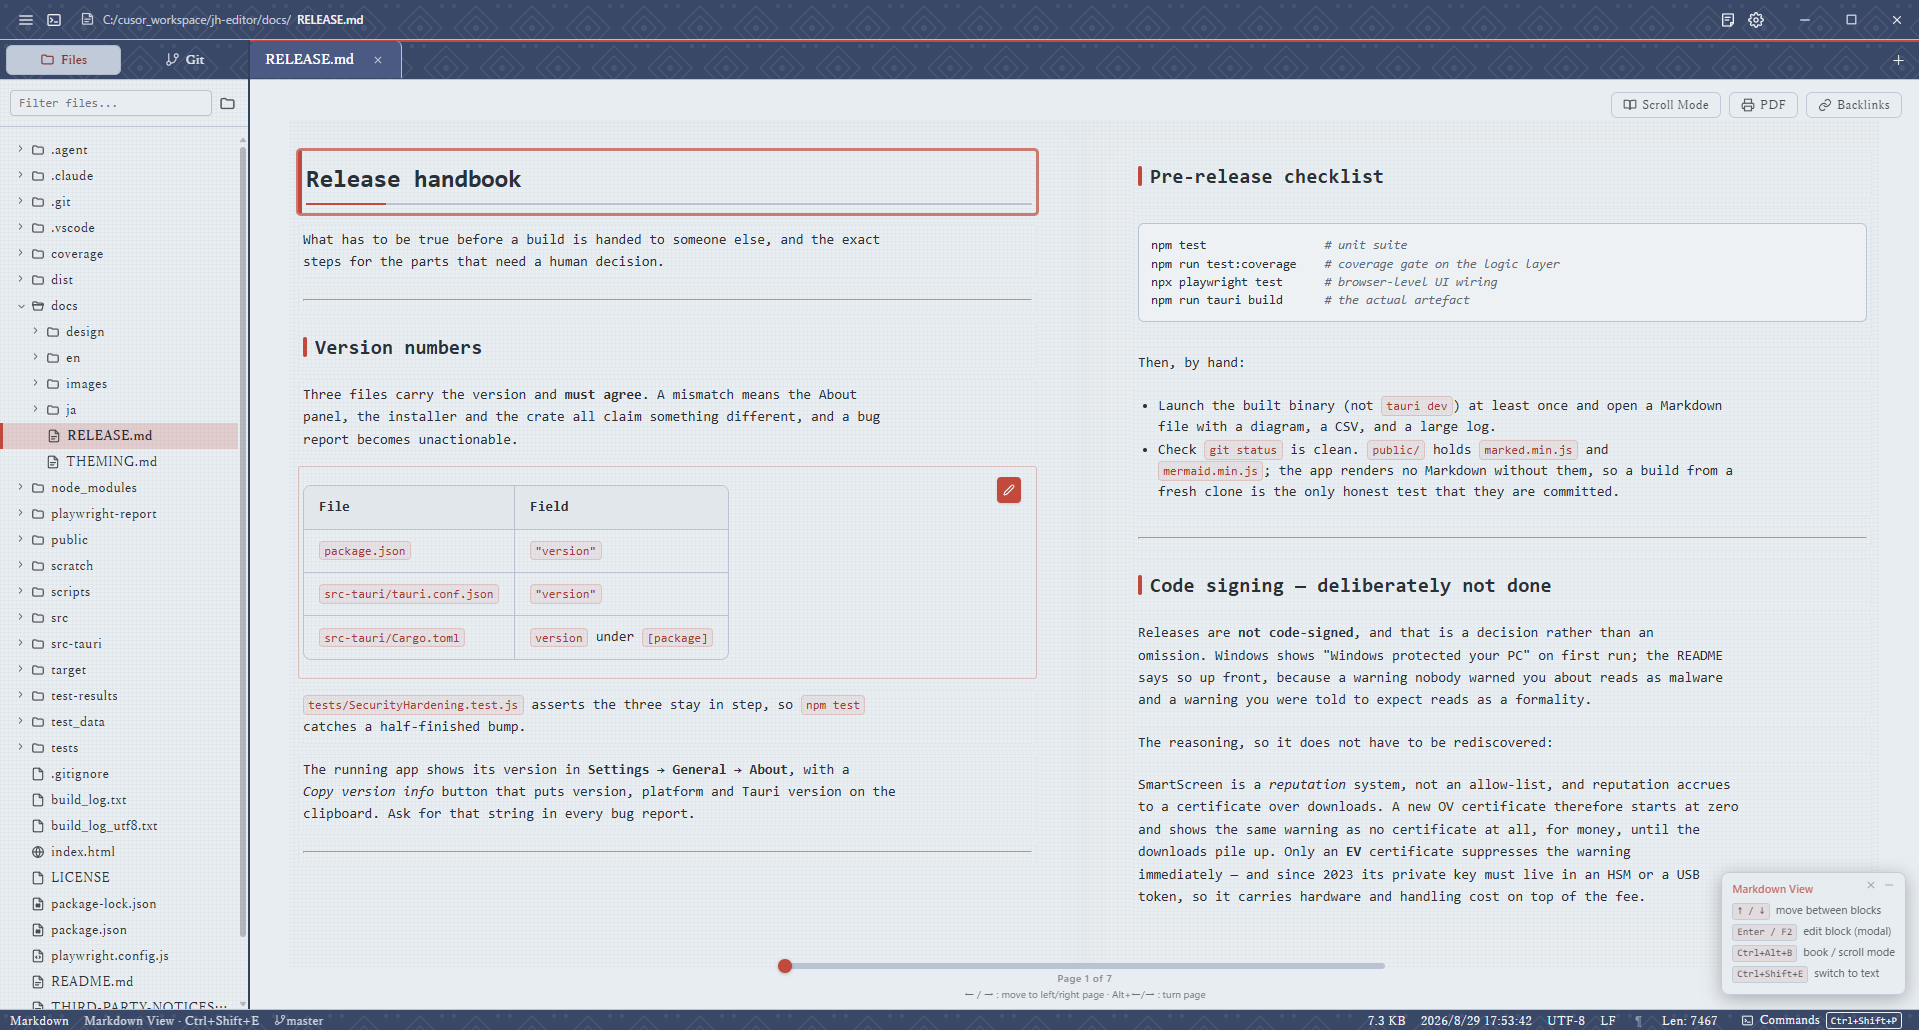
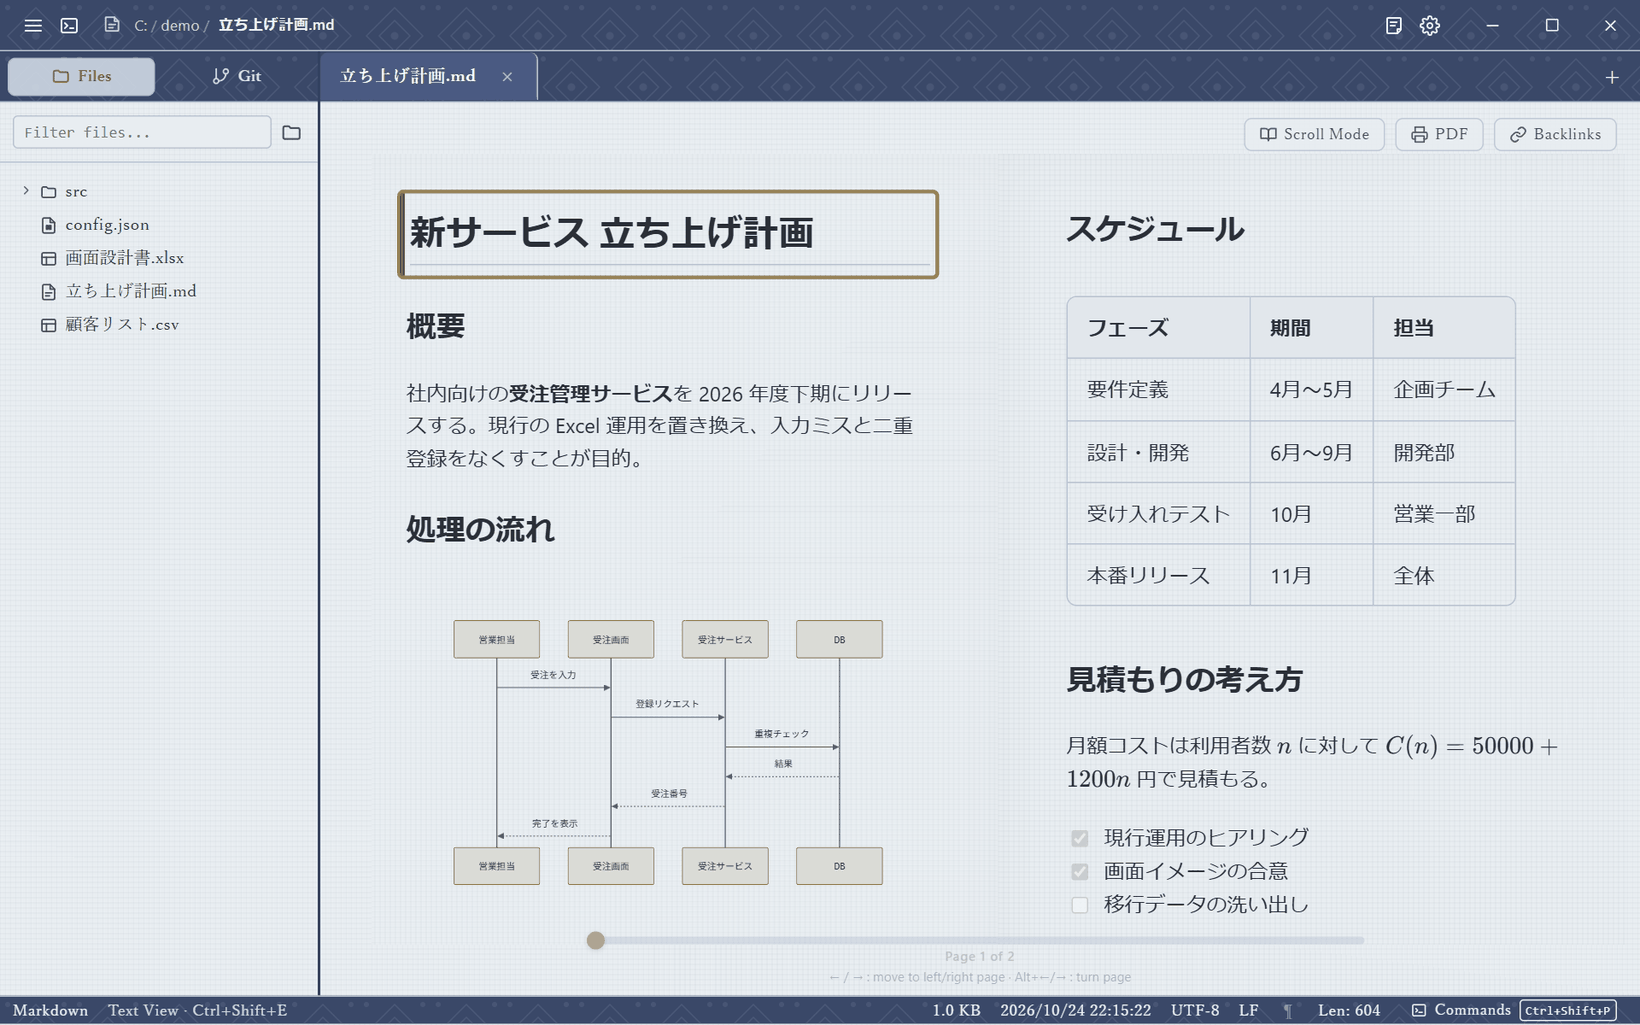
docs: README を 0.6.0 に合わせ、スクリーンショットをライト／ダークで撮り直す
- Git（マージ・リベース・リセット、競合解消、認証ダイアログ）、3 方向マージ、
  エクスプローラー、ワークスペース、文書フォントなど 0.4 以降の機能を追記
- スクリーンショットを掛軸／掛軸ダークのペアにし、<picture> で GitHub の
  表示設定に合わせて切り替える。比較・Excel プレビュー・スライドを追加
- 14 テーマの一覧画像と表を追加（「11 themes」の記述を訂正）
- ショートカット表とプロジェクト構成を現状に合わせる

diff --git a/README.md b/README.md
@@ -4,11 +4,14 @@ A local-first desktop text editor built with **Tauri 2**, **vanilla JavaScript**
 
 <p align="center">
   <picture>
+    <source media="(prefers-color-scheme: dark)" srcset="docs/images/hero-dark.png">
     <img src="docs/images/hero-light.png" alt="J.H Editor in Book mode, with the file tree and tab bar" width="820">
   </picture>
 </p>
 <p align="center">
-  <em>Book mode &mdash; a page-turning reading view for long documents, with highlighting intact</em>
+  <em>Book mode &mdash; a page-turning reading view for long documents, with Mermaid,
+  tables and math intact. Shown in Hanging Scroll, the default theme; the screenshots
+  follow GitHub's light / dark setting.</em>
 </p>
 
 J.H Editor is aimed at being the editor you leave open all day — a fast default for
@@ -17,12 +20,18 @@ Git panel when you need them. It is not trying to be an IDE. Where AI is concern
 plays the **companion** role: it exposes the document you are editing to an external
 agent over MCP, rather than embedding an LLM stack of its own.
 
+Double-click to editable, in well under a second. The window stays hidden until the
+editor is actually ready, so there is no white flash and no empty frame.
+
 ---
 
 ## Screenshots
 
 <p align="center">
-  <img src="docs/images/csv-table.png" alt="A Shift_JIS CSV file opened as a spreadsheet grid" width="820">
+  <picture>
+    <source media="(prefers-color-scheme: dark)" srcset="docs/images/csv-dark.png">
+    <img src="docs/images/csv-light.png" alt="A Shift_JIS CSV file opened as a spreadsheet grid" width="820">
+  </picture>
 </p>
 <p align="center">
   <em>CSV opens as a grid &mdash; sort, resize, transpose, Excel-style insert/delete.
@@ -30,7 +39,32 @@ agent over MCP, rather than embedding an LLM stack of its own.
 </p>
 
 <p align="center">
-  <img src="docs/images/mermaid.png" alt="The Mermaid recipe helper, listing diagram types and syntax snippets" width="820">
+  <picture>
+    <source media="(prefers-color-scheme: dark)" srcset="docs/images/diff-dark.png">
+    <img src="docs/images/diff-light.png" alt="Two Java files side by side in the merge view" width="820">
+  </picture>
+</p>
+<p align="center">
+  <em>Compare is a two-way merge &mdash; left-only, right-only and conflicting changes in
+  their own colours, &larr; / &rarr; per change, and either side editable</em>
+</p>
+
+<p align="center">
+  <picture>
+    <source media="(prefers-color-scheme: dark)" srcset="docs/images/office-dark.png">
+    <img src="docs/images/office-light.png" alt="An Excel design document shown in the read-only Office preview" width="820">
+  </picture>
+</p>
+<p align="center">
+  <em><code>.xlsx</code> opens in milliseconds as a read-only preview that keeps the sheet's
+  column widths, merged cells and borders &mdash; a 方眼紙 design document still looks like one</em>
+</p>
+
+<p align="center">
+  <picture>
+    <source media="(prefers-color-scheme: dark)" srcset="docs/images/mermaid-dark.png">
+    <img src="docs/images/mermaid-light.png" alt="The Mermaid recipe helper, listing diagram types and syntax snippets" width="820">
+  </picture>
 </p>
 <p align="center">
   <em>The Mermaid recipe helper &mdash; pick a diagram type and click the syntax you need,
@@ -38,8 +72,14 @@ agent over MCP, rather than embedding an LLM stack of its own.
 </p>
 
 <p align="center">
-  <em>Double-click to editable, in well under a second. The window stays hidden until
-  the editor is actually ready, so there is no white flash and no empty frame.</em>
+  <picture>
+    <source media="(prefers-color-scheme: dark)" srcset="docs/images/deck-dark.png">
+    <img src="docs/images/deck-light.png" alt="A jh-presentation deck opened as slides, with the slide list and speaker notes" width="820">
+  </picture>
+</p>
+<p align="center">
+  <em>A jh-presentation deck opens as slides &mdash; slide list, speaker notes,
+  presenter view, and text fixed in place</em>
 </p>
 
 ---
@@ -58,6 +98,7 @@ switches modes; the current mode is always shown in the status bar.
 | **Structure** | Tree + source dual pane for JSON / XML / HTML / JSP, with drag-and-drop node manipulation |
 | **Table (CSV/TSV)** | Spreadsheet-style grid: virtual scrolling, row/column select, resize, sort, transpose, Excel-style insert/delete keys |
 | **Diff** | Side-by-side merge where either side can be edited: line-first diff (patience) with word-level highlights, changes marked as left-only / right-only / conflict, ← / → per change and *keep both* (either order) for conflicts (`Alt+M`), paired lines lined up inside a change, sync points to line up two lines by hand (`Alt+S`), a line-details pane showing the cursor line and its counterpart wrapped one above the other (`Alt+D`), one horizontal scrollbar moving both panes, whitespace-ignore toggle, and a change minimap |
+| **3-way merge** | For a Git conflict: base, ours and theirs lined up row for row with the result. One click takes a side (or both); *Save and mark resolved* moves on to the next conflicted file |
 | **Book** | Page-turning reading view (`Ctrl+Alt+B`) for long documents, with syntax highlighting intact |
 | **Deck** | A [jh-presentation](https://github.com/pei-jz/jh-presentation) deck shown as slides. Double-click a box to fix its text in place; only that text changes in the source |
 | **Office preview** | Read-only look inside `.xlsx` / `.xlsm` / `.xls` / `.ods` / `.docx` / `.pptx`, without waiting for Excel or Word to start |
@@ -71,12 +112,22 @@ switches modes; the current mode is always shown in the status bar.
 - **Paste or drop an image** — it is saved next to the document and linked relatively
 - Click any diagram or image to open it full-size in a lightbox
 - Reusable document **templates**
+- **Document font** — choose the face and size used for Markdown prose (Meiryo by
+  default, Yu Gothic, BIZ UD Gothic, …), the same in the scrolling and the page-turning view
+- The block editor and the Mermaid helper go full screen with `F11` (or `Ctrl+Alt+F`);
+  `Ctrl+S` saves without closing the block editor
 - Prose is set in a reading face and code stays in the editor's fixed pitch, in both the
   scrolling and the page-turning view
 
 ### 🗂 Files & search
 
-- **Explorer** — virtual-scrolled tree, filter box, drag-and-drop, multi-workspace, "Reveal in File Explorer"
+- **Explorer** — a virtual-scrolled tree that behaves like an ordinary file manager:
+  multi-select with the usual keys, drag to move or copy, `Delete` to the Recycle Bin,
+  copy and paste to and from Windows Explorer (never overwriting a same-named file),
+  *Copy path* / *Copy relative path*, "Reveal in File Explorer", and open tabs that
+  follow a moved or renamed file
+- **Workspaces** — several at once, and a recent-workspaces menu (`Ctrl+Alt+O`) to
+  switch in one click
 - **Workspace grep** (`Ctrl+G`) with **glob filters** (`*.java`), opening into its own results tab
 - **File search** (`Ctrl+P`), **tab search** (`Ctrl+T`), **outline** (`Ctrl+O`), **go to line** (`Ctrl+L`)
 - **Compare** two files from the explorer, or two whole **folders** (recursive: differing files
@@ -159,10 +210,21 @@ the numbers, which is what a "let me just check something" open is after.
 
 ### 🐙 Git
 
-- **Status panel** — branch selector, stage/unstage, commit, push/pull/fetch
-- **Diff against HEAD** for modified, added and deleted files
-- **History graph** — commit list with search, per-commit file lists, two-revision comparison,
-  and working-tree ↔ commit comparison
+- **Status panel** — branch selector (filterable), stage/unstage, commit, push/pull/fetch
+- **Compare in an editor tab** — modified, added, deleted and untracked files against
+  HEAD, from a click or the context menu; the working-tree side stays editable, and
+  `Ctrl+↑` / `Ctrl+↓` step through the changed files
+- **History graph** — commit list with search, a branch filter, per-commit file lists,
+  two-revision comparison, and working-tree ↔ commit comparison
+- **Merge, rebase, reset** — plus *Undo last commit*. Uncommitted changes are carried
+  across; when a merge or rebase stops on a conflict, the first conflicted file opens
+  in the 3-way merge view
+- **Conflicts** — listed in their own section, with the merge/rebase state shown at the
+  top; take one side from the context menu, or resolve line by line in the 3-way view.
+  *Stage All* leaves conflicted files alone
+- **Authentication in the editor** — username / password and SSH key passphrase prompts
+  appear as an editor dialog, optionally remembered until J.H Editor closes. Git
+  Credential Manager keeps working as before
 - Status badges: `M` modified · `U` untracked · `D` deleted · `S` staged
 
 ### 🤖 AI (J.H AI Agent integration)
@@ -191,10 +253,42 @@ the agent's model calls back into the editor for context.
 
 ### 🎨 Customization
 
-- **11 themes** — Light, Dark, Midnight, Latte, Solarized Light, Solarized Dark, Paper, Bamboo Slip, Ink Brush, Nord, Hanging Scroll
-- **Fonts** — separate family/size for editor, UI and terminal
-- **Shortcuts** — scope-aware system with a searchable in-app guide (`F1`)
-- **Integrated terminal** — xterm.js over a native PTY (toggled from the title bar)
+- **14 themes** (see [Themes](#-themes)), and a **theme per workspace** so windows on
+  different projects are easy to tell apart
+- **Fonts** — separate family/size for editor, UI, Markdown documents and terminal
+- **Shortcuts** — scope-aware system with a searchable in-app guide (`F1`) and a command
+  palette (`Ctrl+Shift+P`)
+- **Integrated terminal** — xterm.js over a native PTY (toggled from the title bar).
+  Dropping a file anywhere on it types the full path; the scrollback length is a setting
+
+---
+
+## 🎨 Themes
+
+<p align="center">
+  <img src="docs/images/themes.png" alt="The same Java file in each of the 14 themes" width="820">
+</p>
+
+| Theme | Base | Character |
+|-------|------|-----------|
+| Light | light | Plain white editor and explorer |
+| Dark | dark | Neutral charcoal |
+| Midnight | dark | Near-black with a blue-purple cast |
+| Latte | light | Warm cream |
+| Solarized Light | light | Solarized, with body text darkened for contrast |
+| Solarized Dark | dark | Solarized, with contrast raised |
+| Paper | light | Aged paper on a desk, ruled lines behind Markdown |
+| Paper Dark | dark | Kraft paper at night; Book mode lays the sheet on a desk |
+| Ink Brush (墨絵) | light | Washi, with ink-wash mountains along the mount |
+| Ink Brush Dark | dark | Near-black ink |
+| **Hanging Scroll (掛軸)** — default | light | Indigo brocade mount around moon-white silk |
+| Hanging Scroll Dark | dark | Deep indigo silk, gold-damask mount, vermillion seal |
+| Nord | dark | Nord's own palette, form controls included |
+| Bamboo Slip (竹簡) | dark | Bamboo slips bound with cord, Mincho on the chrome |
+
+*Base* is what the editor surface is, and it decides the syntax, Mermaid and terminal
+palettes. Hanging Scroll counts as light: its mount is indigo, but the sheet you read is
+pale silk. To add a theme, see [docs/THEMING.md](docs/THEMING.md).
 
 ---
 
@@ -204,7 +298,7 @@ the agent's model calls back into the editor for context.
 graph TB
     subgraph Frontend ["Frontend — vanilla ES modules + CodeMirror 6"]
         App[App.js] --> Editor[Editor.js<br/>tabs, panes, view dispatch]
-        Editor --> Views[Views: CodeMirror / Markdown /<br/>Structure / CSV / LargeFile / DirDiff]
+        Editor --> Views[Views: CodeMirror / Markdown / Structure /<br/>CSV / Office / Deck / LargeFile / DirDiff]
         Editor --> Panes[Panes.js<br/>split-pane state]
         Editor --> Session[Session.js<br/>tabs + drafts]
         App --> Explorer[Explorer + Git panel]
@@ -340,11 +434,11 @@ jh-editor/
 │   ├── modules/
 │   │   ├── ai/            # JhAiMcp (MCP surface), jhai-adapter, activity dock
 │   │   ├── core/          # App, Editor, Panes, Session, Store, Explorer, shortcuts
-│   │   ├── editors/       # Csv, Diff, Structure, Table, Compare, Vim
+│   │   ├── editors/       # Csv, Merge (2-way), Conflict (3-way), Structure, Table, Compare, Vim
 │   │   ├── lsp/           # LspClient, completion / hover / diagnostics widgets
-│   │   ├── ui/            # Modals, Git panel, search, terminal, HTML preview, Mermaid helper
+│   │   ├── ui/            # Modals, Git panel + auth dialog, search, terminal, HTML preview, Mermaid helper
 │   │   ├── utils/         # Parsers, highlighters, Markdown, VirtualScroll, FileSystem
-│   │   ├── views/         # CodeMirror, Markdown, Structure, Csv, LargeFile, DirDiff, Office
+│   │   ├── views/         # CodeMirror, Markdown, Structure, Csv, LargeFile, DirDiff, Office, Deck, GitCompare
 │   │   └── workers/       # CSV / parser / formatter web workers
 │   └── styles/            # Themes and component CSS
 ├── src-tauri/
@@ -366,6 +460,7 @@ definitions the app dispatches, so it cannot drift out of date.
 | `Ctrl+S` | Save |
 | `Ctrl+N` / `Ctrl+W` | New file / Close tab |
 | `Ctrl+Tab` / `Ctrl+Shift+Tab` | Next / previous tab |
+| `Ctrl+Shift+P` | Command palette |
 | `Ctrl+P` | File search |
 | `Ctrl+T` | Tab search |
 | `Ctrl+G` | Workspace grep (supports globs) |
@@ -375,14 +470,17 @@ definitions the app dispatches, so it cannot drift out of date.
 | `Ctrl+Shift+E` | Toggle view mode (Text ⇄ Structure / Table / Markdown) |
 | `Ctrl+Alt+P` | Toggle preview (Markdown / HTML) |
 | `Ctrl+Alt+B` | Book mode |
-| `Ctrl+Alt+F` | Full screen — Markdown block editor and Mermaid helper (`Esc` steps back out) |
+| `F11` / `Ctrl+Alt+F` | Full screen — Markdown block editor and Mermaid helper (`Esc` steps back out) |
+| `Ctrl+Alt+O` | Recent workspaces |
 | `Ctrl+PageUp` / `Ctrl+PageDown` | Previous / next sheet in the Office preview |
 | `Arrow keys` / `Shift`+arrow | Office preview: move the selected cell / stretch the range |
 | `Ctrl+\` | Split editor right |
 | `Ctrl+Shift+\` | Focus other pane |
 | `Ctrl+Shift+W` | Close split |
 | `Ctrl+Shift+D` / `Ctrl+Alt+D` | Compare with file / Compare scratch text |
+| `Alt+M` / `Alt+S` / `Alt+D` / `Alt+I` | Compare: keep both / sync point / line details / ignore whitespace |
 | `Ctrl+Space` | Inline AI |
+| `Ctrl+Alt+C` | AI chat |
 | `F12` / `Shift+F12` | Go to definition / Find references |
 | `Ctrl+Alt+V` | Vim mode |
 | `Ctrl+Alt+W` | Whitespace markers |
@@ -427,7 +525,9 @@ goes through `utils/SanitizeHtml.js` before it reaches the DOM — script tags,
 event-handler attributes and `javascript:` URLs are removed, while tables, task
 lists, code highlighting, images and Mermaid blocks are kept. Mermaid runs at
 `securityLevel: 'strict'`, so a diagram's `click` directive cannot call into the
-page. HTML files preview inside a sandboxed iframe with scripts off by default.
+page. AI task results go through the same sanitiser, and file names and error
+messages are always inserted as text, never as markup. HTML files preview inside a
+sandboxed iframe with scripts off by default.
 
 Git runs through `git_exec`, which takes an argument array — there is no general
 shell command reachable from the webview.
